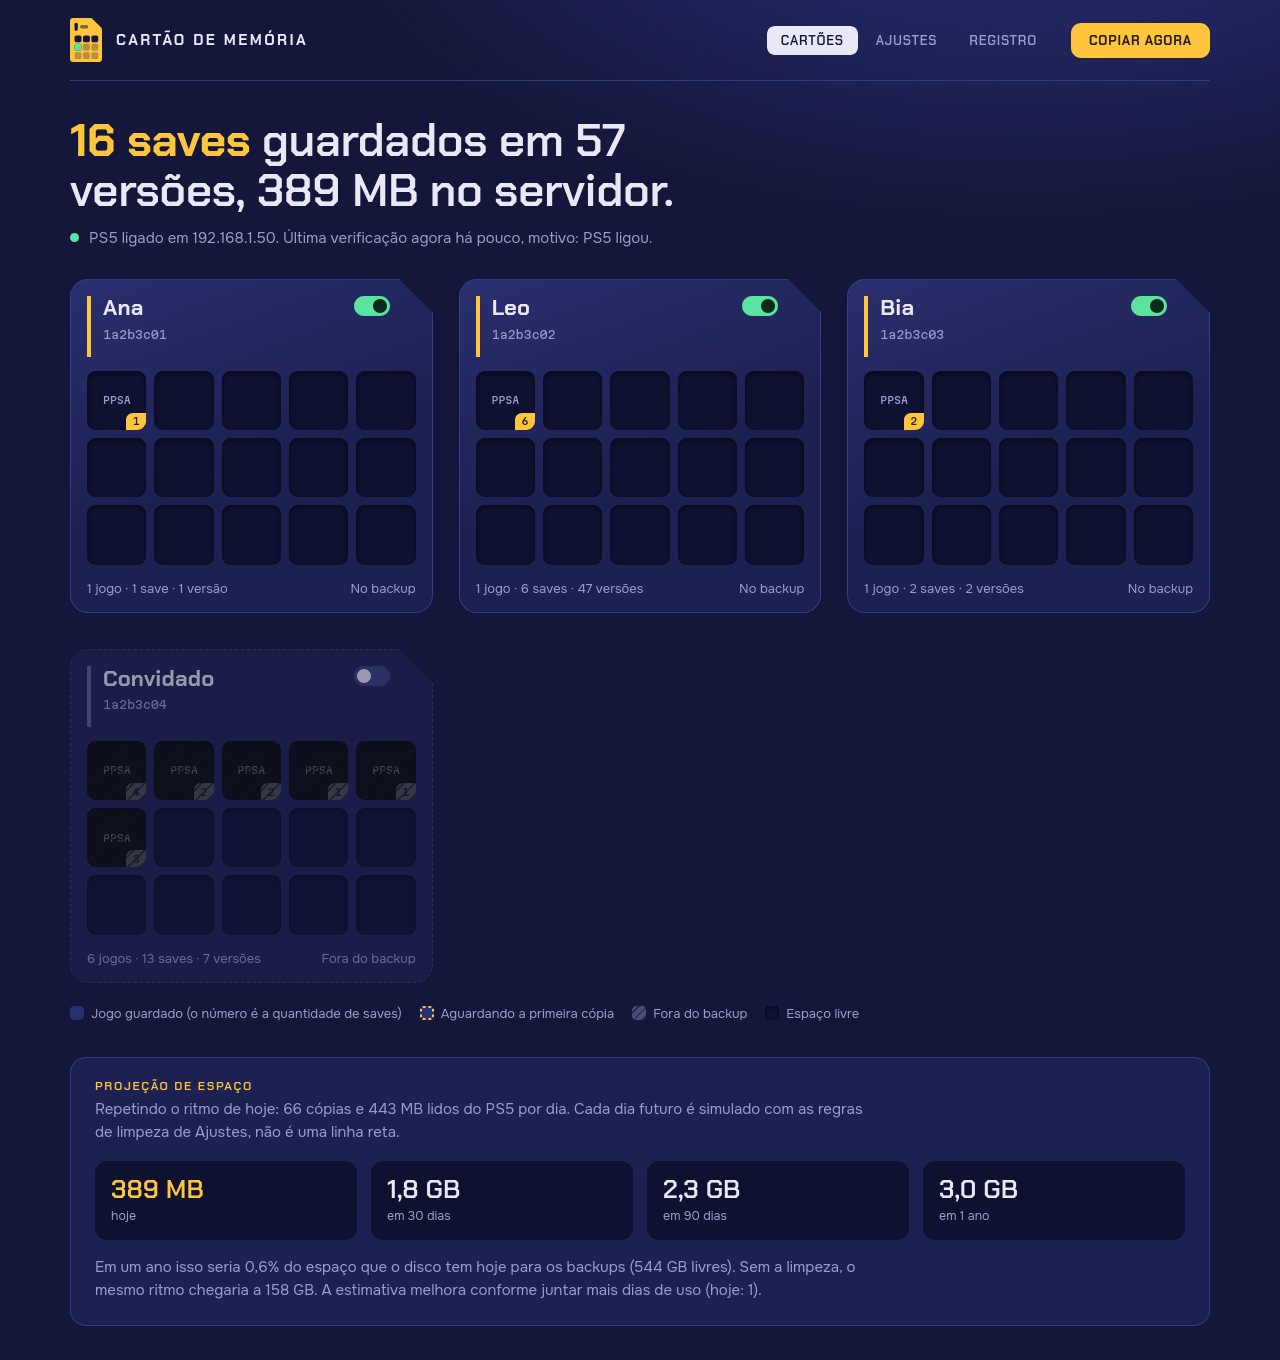
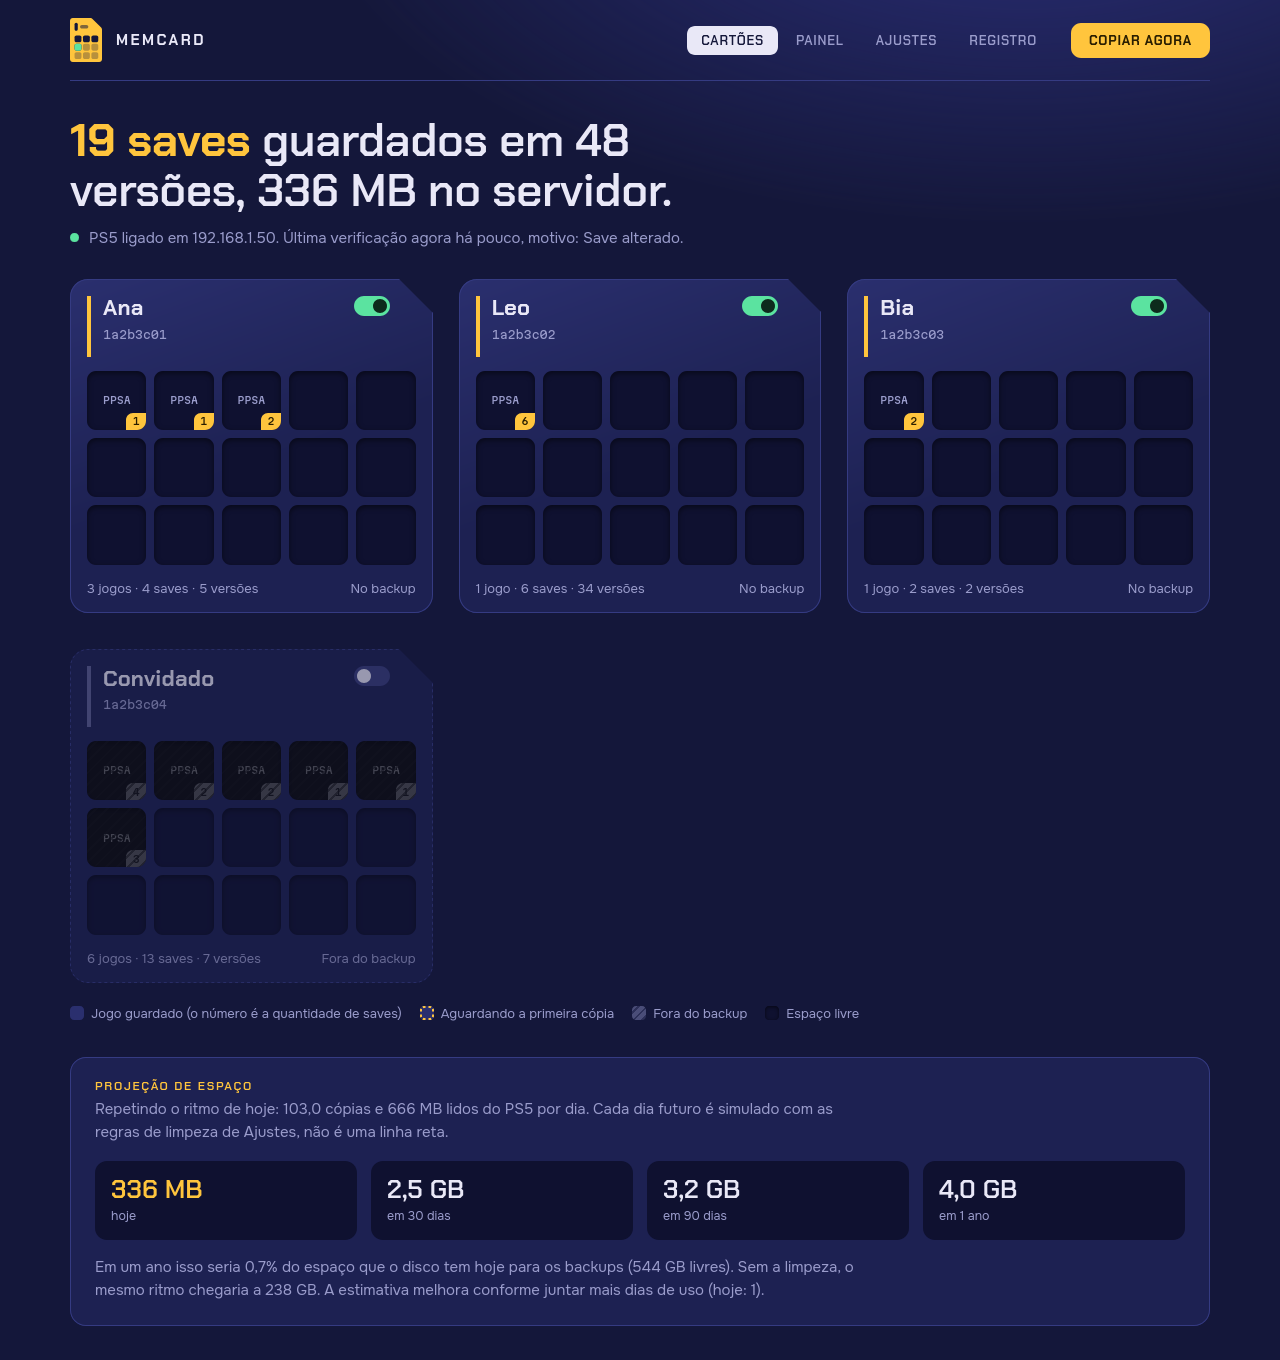
Projeto passa a se chamar Memcard
Nome próprio e neutro, igual em português e inglês, mantendo a identidade de
cartão de memória. Muda o nome na interface, na tela de login, no bot do
Discord, nos READMEs e nos links do repositório (agora bps2414/memcard).
Prints de exemplo refeitos, um por idioma.

Claude-Session: https://claude.ai/code/session_01MUXpfhkyRG2RqV26xdvSig

diff --git a/app/ui/index.html b/app/ui/index.html
@@ -3,7 +3,7 @@
 <head>
 <meta charset="utf-8">
 <meta name="viewport" content="width=device-width, initial-scale=1">
-<title>Cartão de Memória</title>
+<title>Memcard</title>
 <link rel="icon" type="image/svg+xml" href="/logo.svg">
 <link rel="preconnect" href="https://fonts.googleapis.com">
 <link rel="preconnect" href="https://fonts.gstatic.com" crossorigin>
@@ -230,7 +230,7 @@ pre.log { margin: 14px 0 0; padding: 16px; border-radius: 12px; background: var(
 <body>
 <div class="wrap">
   <header class="top">
-    <div class="brand"><img src="/mark.svg" alt="">Cartão de Memória</div>
+    <div class="brand"><img src="/mark.svg" alt="">Memcard</div>
     <nav class="tabs" role="tablist">
       <button role="tab" data-tab="cards" aria-selected="true" data-i18n="tab_cards">Cartões</button>
       <button role="tab" data-tab="stats" aria-selected="false" data-i18n="tab_stats">Painel</button>
@@ -603,7 +603,7 @@ function renderProjection() {
   const year = p.projected["365"], share = year / (p.free_bytes + p.now_bytes) * 100;
   const basis = p.window_days === 1 ? t("proj_today_basis") : t("proj_days_basis", { n: p.window_days });
   const pace = p.copies_per_day
-    ? t("proj_pace", { basis, copies: nf(p.copies_per_day, 1), size: gb(p.raw_bytes_per_day) })
+    ? t("proj_pace", { basis, copies: nf(p.copies_per_day, Number.isInteger(p.copies_per_day) ? 0 : 1), size: gb(p.raw_bytes_per_day) })
     : t("proj_idle", { basis });
   box.innerHTML = `<h3>${t("proj_title")}</h3>
     <p>${pace} ${t("proj_how")}</p>

diff --git a/app/ui/login.html b/app/ui/login.html
@@ -3,7 +3,7 @@
 <head>
 <meta charset="utf-8">
 <meta name="viewport" content="width=device-width, initial-scale=1">
-<title>Cartão de Memória</title>
+<title>Memcard</title>
 <link rel="icon" type="image/svg+xml" href="/logo.svg">
 <link rel="preconnect" href="https://fonts.googleapis.com">
 <link rel="preconnect" href="https://fonts.gstatic.com" crossorigin>
@@ -31,7 +31,7 @@ button:disabled { opacity: .55; cursor: default; }
 </head>
 <body>
 <form id="form">
-  <div class="brand"><img src="/mark.svg" alt="">Cartão de Memória</div>
+  <div class="brand"><img src="/mark.svg" alt="">Memcard</div>
   <p data-i18n="intro"></p>
   <label for="password" data-i18n="label"></label>
   <input type="password" id="password" autocomplete="current-password" autofocus required>

diff --git a/app/ps5backup.py b/app/ps5backup.py
@@ -65,7 +65,7 @@ DEFAULTS = {
 MINIMUMS = {"watch_interval_seconds": 10, "probe_interval_seconds": 5, "offline_after_failures": 1, "keep_min_versions": 1,
             "ftp_port": 1, "garlic_port": 1, "now_playing_minutes": 1}
 # Avatar das mensagens no Discord (precisa ser uma URL pública; o Discord não lê SVG).
-AVATAR_URL = "https://raw.githubusercontent.com/bps2414/cartao-de-memoria/main/docs/logo.png"
+AVATAR_URL = "https://raw.githubusercontent.com/bps2414/memcard/main/docs/logo.png"
 
 log = logging.getLogger("ps5backup")
 # Estado em memória do daemon, lido pela interface web.
@@ -249,7 +249,7 @@ def send_embed(embed, message_id=None):
             text = "\n".join(x for x in (embed["title"], embed.get("description", "")) if x)
             _http("POST", url, text.encode(), "text/plain; charset=utf-8")
             return None
-        body = json.dumps({"username": "Cartão de Memória", "avatar_url": AVATAR_URL,
+        body = json.dumps({"username": "Memcard", "avatar_url": AVATAR_URL,
                            "embeds": [embed]}).encode()
         base = url.split("?")[0]
         if message_id:

diff --git a/app/i18n.py b/app/i18n.py
@@ -47,7 +47,7 @@ TEXT = {
                        "(arquivo corrompido ou ausente). Nada foi apagado. Veja Registro › Integridade.",
         "verify_more": "… e mais {n}",
         "f_intact": "Versões íntegras",
-        "test_title": "🎮  Teste do Cartão de Memória",
+        "test_title": "🎮  Teste do Memcard",
         "test_body": "Se você está lendo isto, os avisos estão chegando.",
         # erros da API
         "e_not_found": "não encontrado",
@@ -113,7 +113,7 @@ TEXT = {
                        "(corrupted or missing file). Nothing was deleted. See Log › Integrity.",
         "verify_more": "… and {n} more",
         "f_intact": "Intact versions",
-        "test_title": "🎮  Cartão de Memória test",
+        "test_title": "🎮  Memcard test",
         "test_body": "If you can read this, notifications are working.",
         "e_not_found": "not found",
         "e_bad_path": "invalid path",

diff --git a/README.en.md b/README.en.md
@@ -1,14 +1,14 @@
 <p align="center"><img src="docs/logo.svg" width="96" alt=""></p>
 
-# Cartão de Memória
+# Memcard
 
 **English** · [Português](README.md)
 
-*Cartão de Memória* is Portuguese for "memory card". It keeps automatic,
-versioned backups of the saves on a jailbroken PS5, stored on a computer in your
-home network, with a web interface.
+A memory card for your PS5: automatic, versioned backups of the saves on a
+jailbroken console, stored on a computer in your home network, with a web
+interface.
 
-![Cards screen: one card per profile, one block per game](docs/screenshot.png)
+![Cards screen: one card per profile, one block per game](docs/screenshot.en.png)
 
 *Sample data. In real use each block shows the game's icon.*
 
@@ -38,8 +38,8 @@ To restore a save you will also want
 ## Installation
 
 ```sh
-git clone https://github.com/bps2414/cartao-de-memoria.git
-cd cartao-de-memoria
+git clone https://github.com/bps2414/memcard.git
+cd memcard
 cp config.example.toml config.toml
 cp .env.example .env
 ```

diff --git a/README.md b/README.md
@@ -1,11 +1,11 @@
 <p align="center"><img src="docs/logo.svg" width="96" alt=""></p>
 
-# Cartão de Memória
+# Memcard
 
 **Português** · [English](README.en.md)
 
-Backup automático e versionado dos saves de um PS5 com jailbreak para um
-computador da sua rede, com interface web.
+Um cartão de memória para o seu PS5: backup automático e versionado dos saves
+de um console com jailbreak para um computador da sua rede, com interface web.
 
 ![Tela dos cartões: um cartão por perfil, um bloco por jogo](docs/screenshot.png)
 
@@ -37,8 +37,8 @@ Para restaurar um save você também vai querer o
 ## Instalação
 
 ```sh
-git clone https://github.com/bps2414/cartao-de-memoria.git
-cd cartao-de-memoria
+git clone https://github.com/bps2414/memcard.git
+cd memcard
 cp config.example.toml config.toml
 cp .env.example .env
 ```
